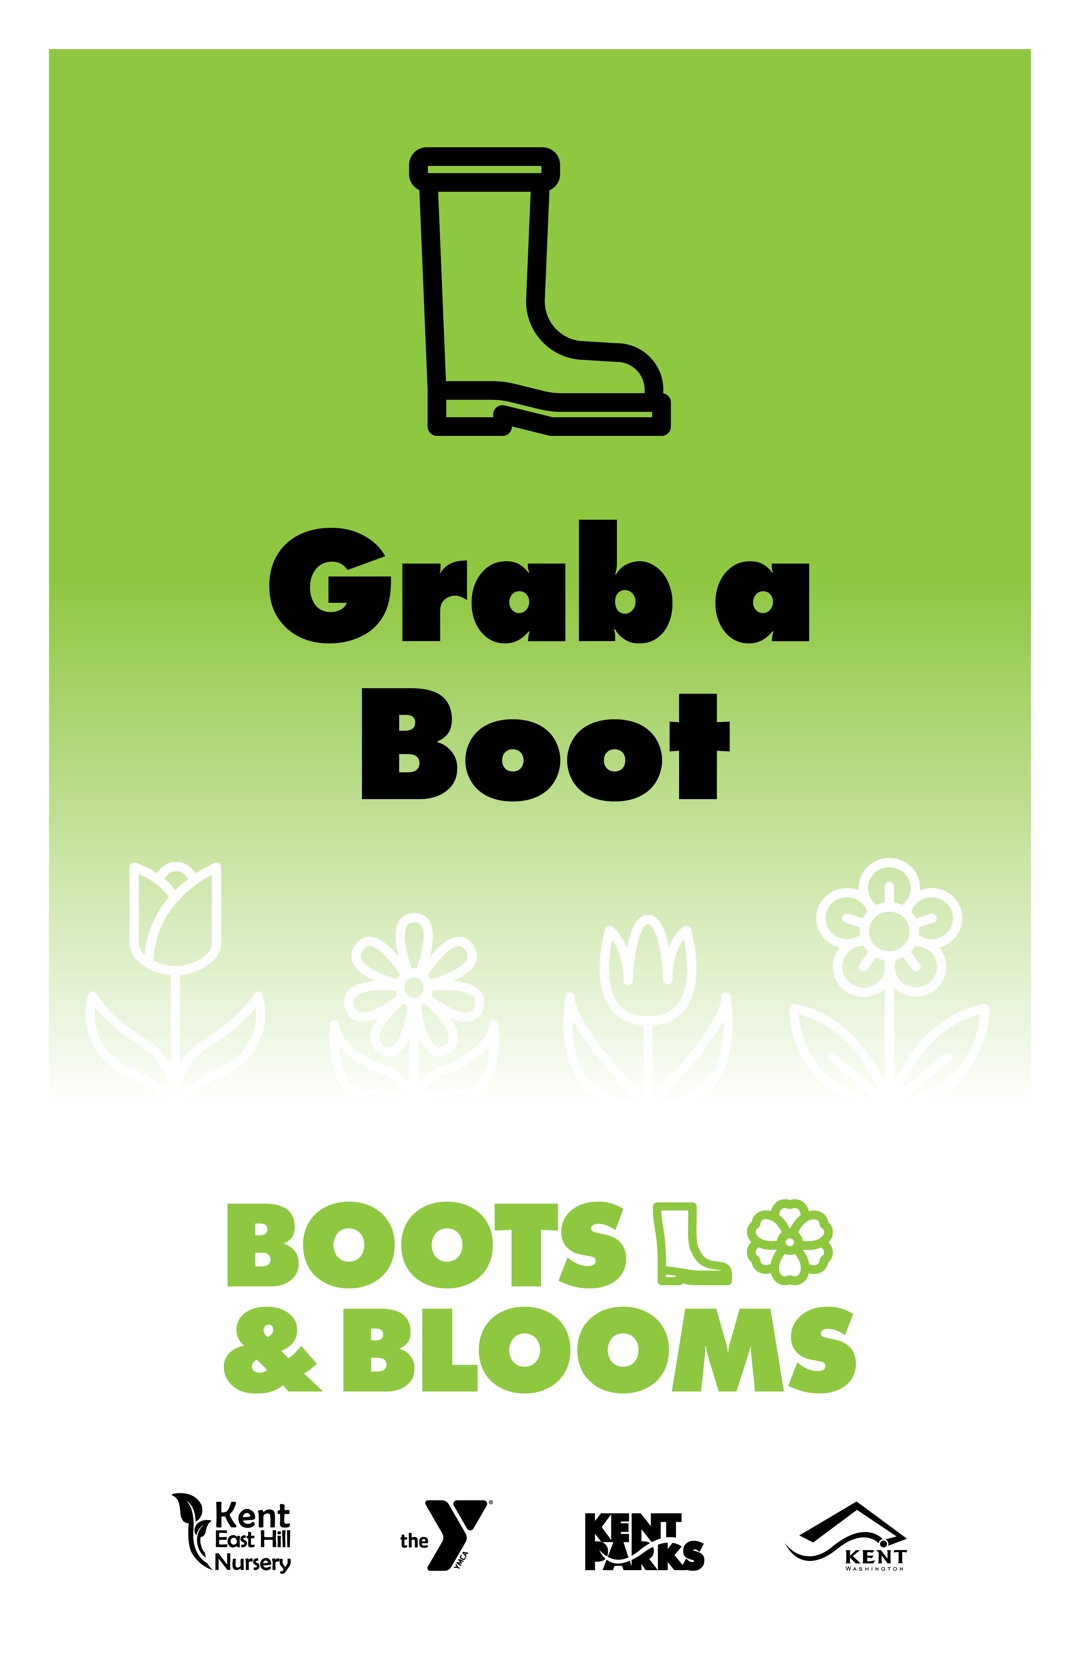
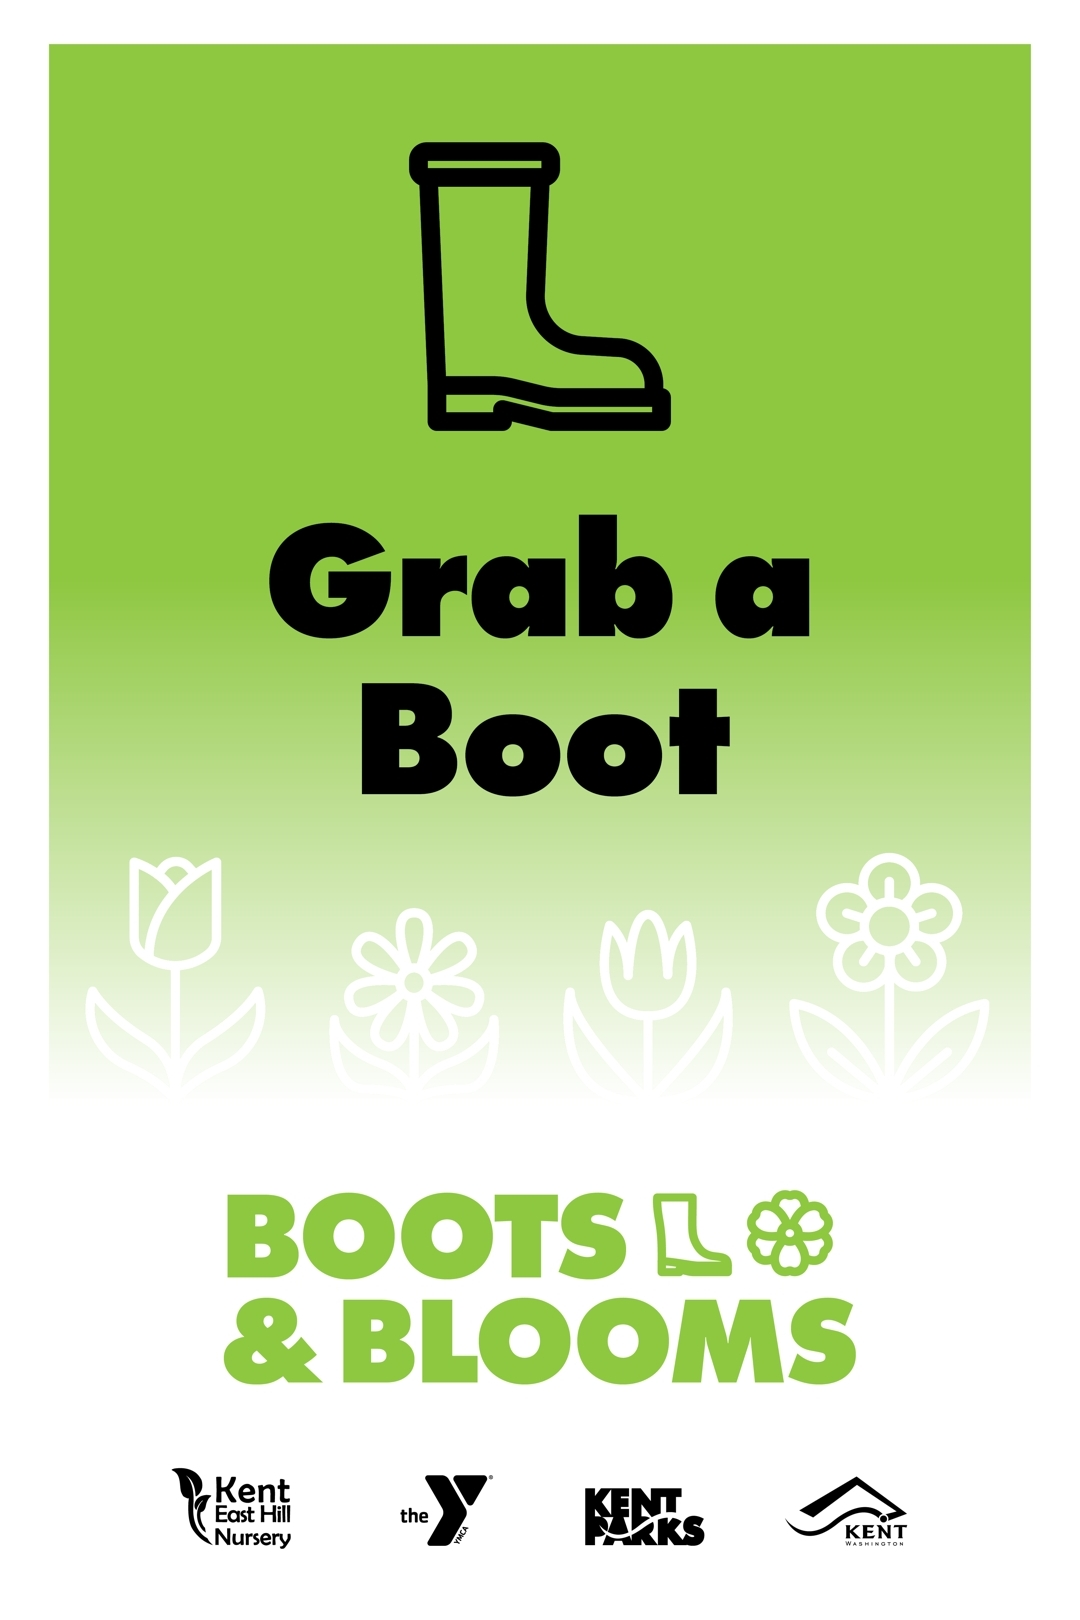
Update city page

diff --git a/city.html b/city.html
@@ -142,16 +142,27 @@
 
       <h3 style="width:100%; text-align: center;">City-Branded Posters/Merch</h3>
 
-      <div class="column-3">
-        <img src="assets/img/design/city/poster.jpg" alt="Mayor's Breakfast poster" style="width: 100%;" loading="lazy">
-      </div>
-      <div class="column-3">
-        <img src="assets/img/design/city/glass.jpg" alt="#WeAreKent glass jar" style="width: 100%;" loading="lazy">
-      </div>
+
+
       <div class="column-3">
         <img src="assets/img/design/city/canned food.jpg" alt="Canned Food poster with the text styled as a nutrition label" style="width: 100%;" loading="lazy">
       </div>
 
+      <div class="column-3">
+        <img src="assets/img/design/city/poster.jpg" alt="Mayor's Breakfast poster" style="width: 100%;" loading="lazy">
+      </div>
+
+      <div class="column-3">
+        <img src="assets/img/design/city/boots3.jpg" alt="Canned Food poster with the text styled as a nutrition label" style="width: 100%;" loading="lazy">
+      </div>
+
+
+      <div class="column-2">
+        <img src="assets/img/design/city/glass-photo.jpg" alt="#WeAreKent glass jar" style="width: 100%;" loading="lazy">
+      </div>
+      <div class="column-2">
+        <img src="assets/img/design/city/glass-gif.gif" alt="#WeAreKent glass jar" style="width: 100%;" loading="lazy">
+      </div>
       
 
 
@@ -186,7 +197,7 @@
 
 
 <!-- <h3 style="width:100%; text-align: center;">Christmas Rush</h3> -->
-<div class="column-3">
+<!-- <div class="column-3">
   <img src="assets/img/design/city/boots3.jpg" alt="Boots and Blooms sign" style="width: 100%;" loading="lazy">
 
 
@@ -198,7 +209,7 @@
 
 <div class="column-3">
   <img src="assets/img/design/city/boots1.jpg" alt="Boots and Blooms sign" style="width: 100%;" loading="lazy">
-</div>
+</div> -->
 <!-- 
 <div class="description-container" style="width: 100%;">
   <p>For GIS Day, I incorporated a nostalgic Power Rangers themed look into the GIS Day poster and stickers.</p>
@@ -211,12 +222,12 @@
 
 </div>
 <div class="column-3">
-  <img src="assets/img/design/city/gis-sticker-pic.jpg" alt="GIS Day and Power Rangers inspired sticker" style="width: 100%;" loading="lazy">
+  <img src="assets/img/design/city/gis-sticker-pic-revised.jpg" alt="GIS Day and Power Rangers inspired sticker" style="width: 100%;" loading="lazy">
 
 </div>
 
 <div class="column-3">
-  <img src="assets/img/design/city/gis-sticker.jpg" alt="GIS Day stickers laying on a white background" style="width: 100%;" loading="lazy">
+  <img src="assets/img/design/city/gis-sticker-revised.jpg" alt="GIS Day stickers laying on a white background" style="width: 100%;" loading="lazy">
 </div>
 
 <h3 style="width:100%; text-align: center;">Photography</h3>
@@ -244,7 +255,7 @@
 
 <div class="description-container" style="width: 100%;">
   <h3>Reflection</h3>
-  <img src="assets/img/design/city/fairy.jpg" alt="Blue City of Kent-themed fairy" style="width:100%;">
+  <img src="assets/img/design/city/fairy.png" alt="Blue City of Kent-themed fairy" style="width:100%;">
   <p>
     I feel like I have grown so much after this experience. Not only did I learn more about design and local government, I made genuine connections with my office and figured out more who I am and what my long-term goals are. 
     Some random (but still crucial!) tidbits I learned about are:
